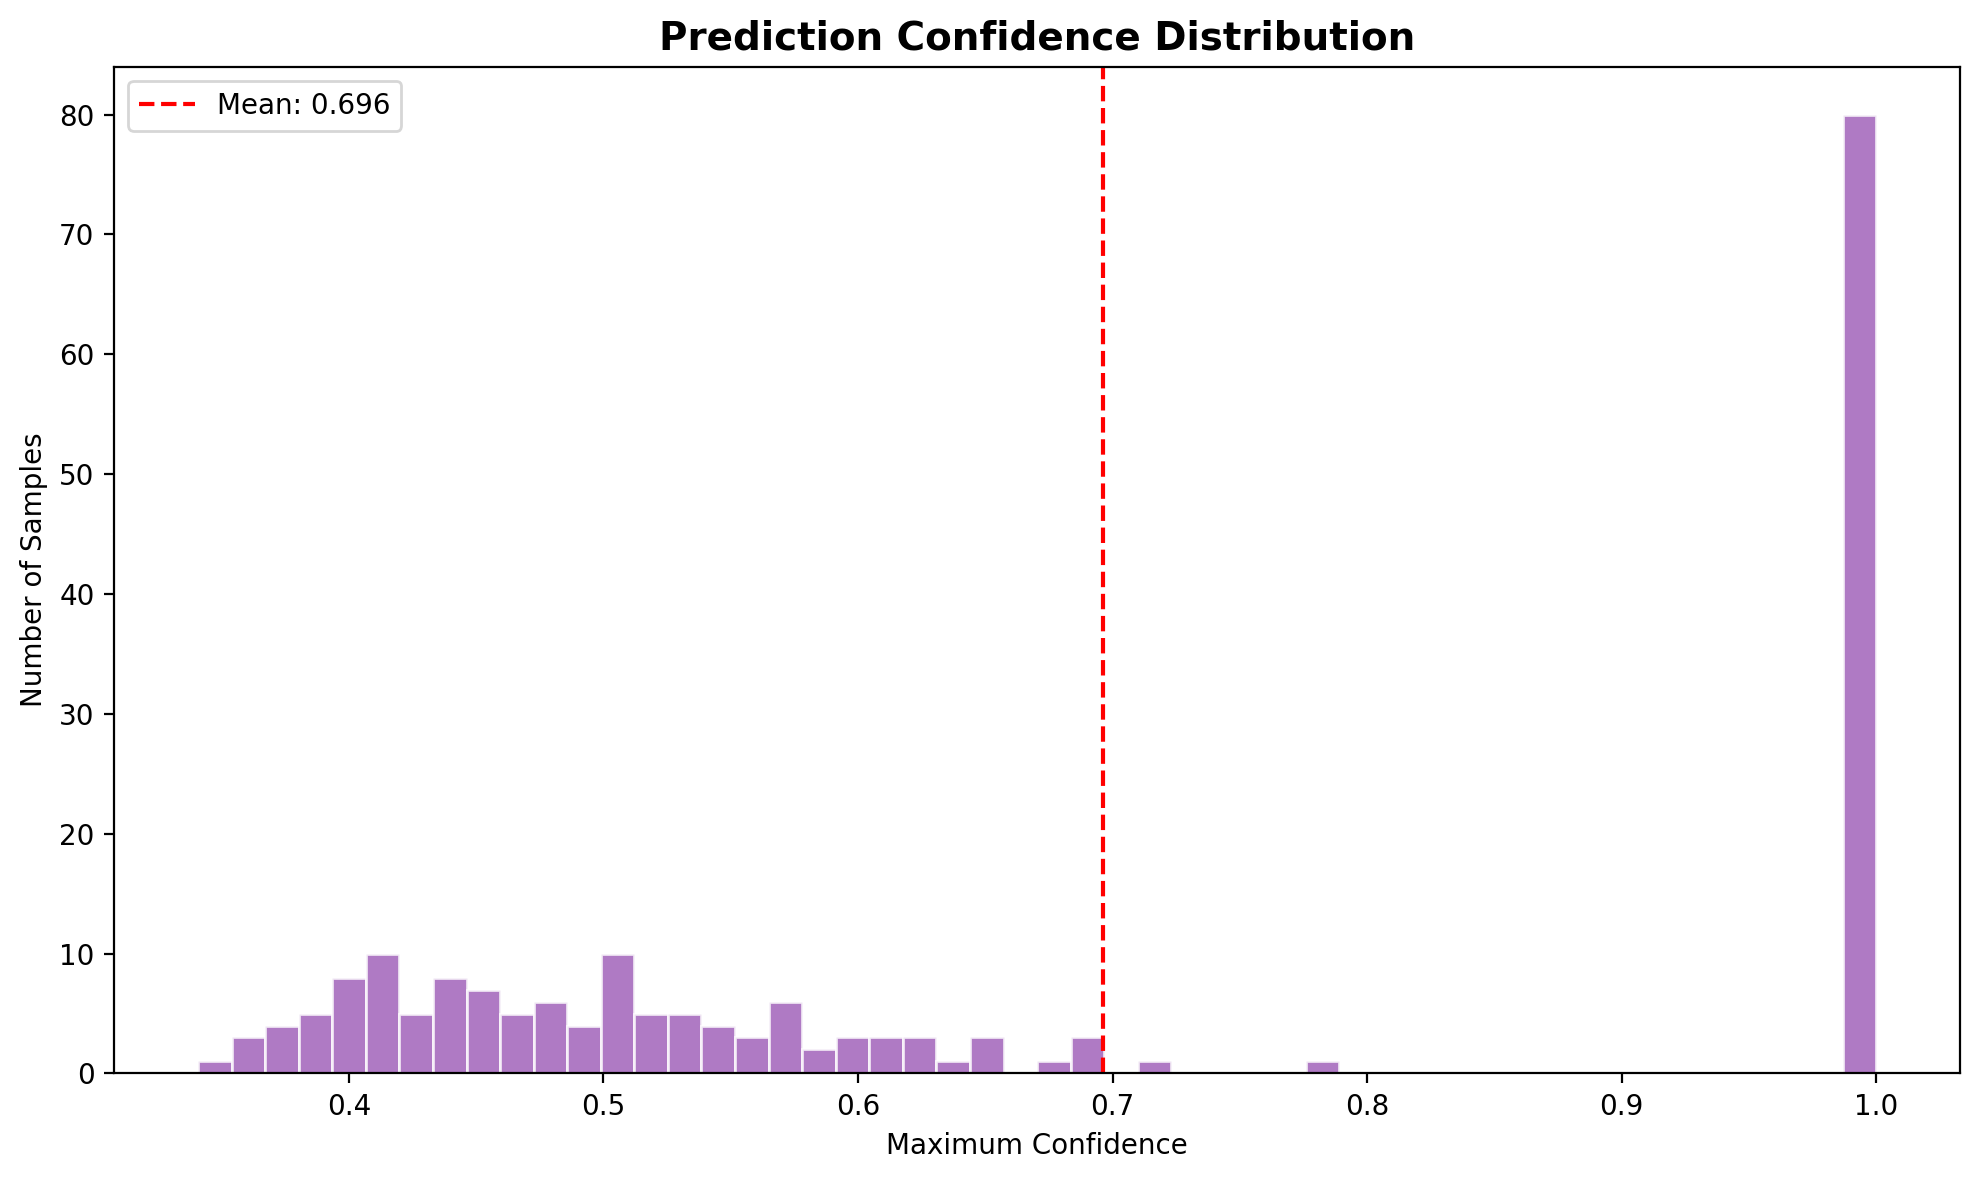
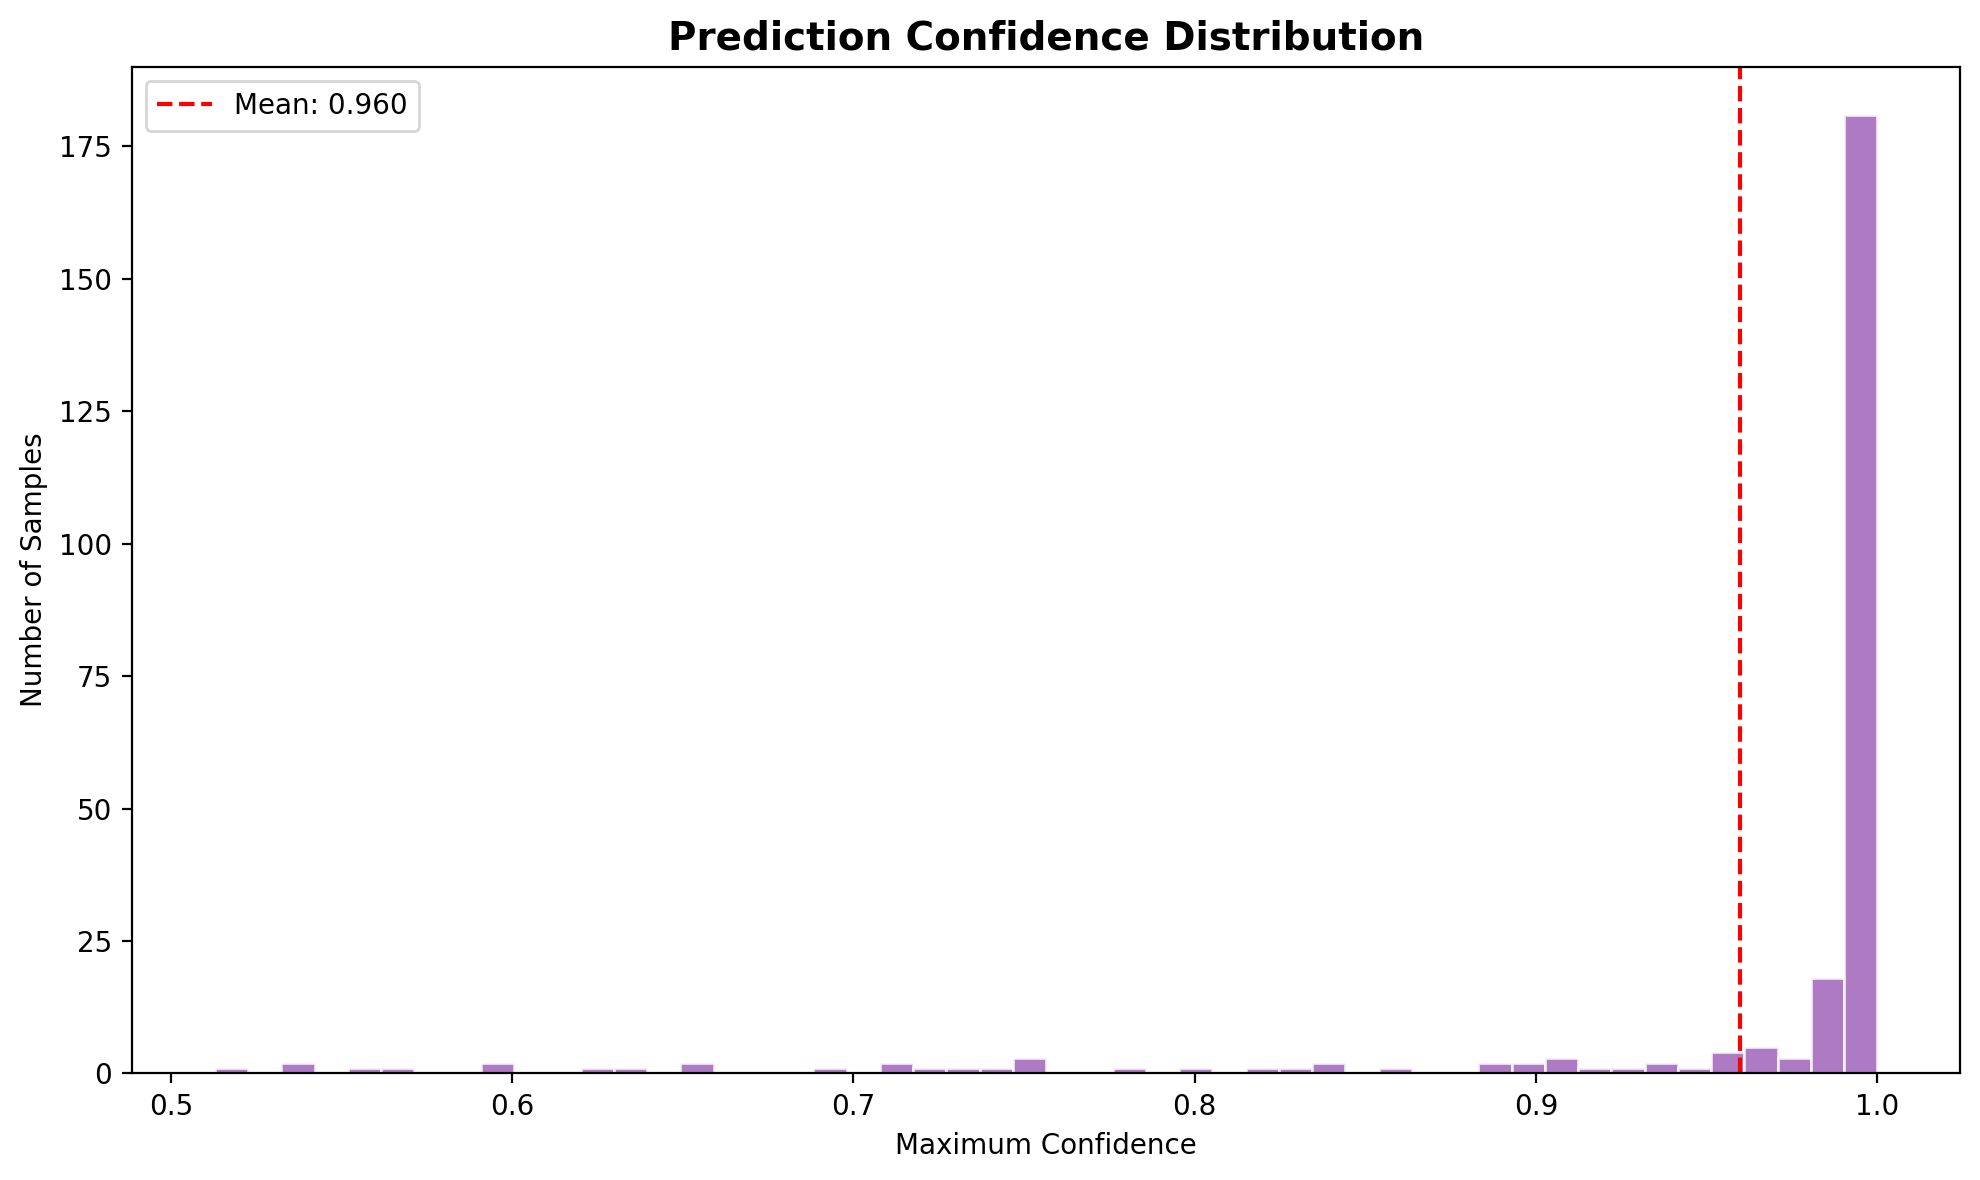
results: ship real Colab run -- 95.6% acc, 96.4% with TTA
- evaluation_results.json: 95.6% accuracy / 0.956 macro F1 (standard),
  96.4% / 0.964 with TTA(6x) -- well above the 80% target.
- Per-class: Nebula / Star Cluster / Planetary = 1.000 F1.
  Spiral 0.884, Elliptical 0.895 (residual confusion between the two
  galaxy morphologies, as expected).
- Grad-CAM: 15 sample visualizations + summary grid (results/gradcam/).
- Confusion matrix, per-class metrics, confidence distribution PNGs.
- .gitignore: keep the small evaluation artifacts (PNGs + JSON +
  gradcam/) so reviewers can audit without retraining; still skip the
  134 MB best_model.pth (reproducible via python src/train.py).
- REPORT.md + README.md: numbers updated to the real run.

diff --git a/REPORT.md b/REPORT.md
@@ -22,26 +22,28 @@
 
 ## Final Test Metrics
 
-Evaluated on the held-out **disjoint** test set (200 images, 40 per class — none seen in training). Macro-averaged.
+Evaluated on the held-out **disjoint** test set (250 images, 50 per class — none seen in training). Macro-averaged.
 
 | Metric | Standard | + TTA (6× aug) |
 |---|---|---|
-| **Accuracy** | **72.0%** | **74.5%** |
-| **Precision (macro)** | **0.716** | — |
-| **Recall (macro)** | **0.720** | — |
-| **F1 (macro)** | **0.711** | **0.741** |
+| **Accuracy** | **95.6%** | **96.4%** |
+| **Precision (macro)** | **0.958** | — |
+| **Recall (macro)** | **0.956** | — |
+| **F1 (macro)** | **0.956** | **0.964** |
 
 **Per-class F1 (Standard):**
 
 | Class | F1 |
 |---|---|
-| Elliptical Galaxy | 1.000 |
+| Spiral Galaxy | 0.884 |
+| Elliptical Galaxy | 0.895 |
 | Nebula | 1.000 |
-| Planetary Object | 0.660 |
-| Star Cluster | 0.400 |
-| Spiral Galaxy | 0.494 |
+| Star Cluster | 1.000 |
+| Planetary Object | 1.000 |
 
-*Strongest on Elliptical/Nebula (near-perfect); Spiral vs Star Cluster confusion drives the lower macro score (visually similar diffuse structures). TTA adds ~+2.5% accuracy.*
+*Strongest on Nebula / Star Cluster / Planetary (perfect). Spiral vs Elliptical confusion is the residual error — both are galaxy morphologies with overlapping visual cues. TTA adds +0.8% accuracy.*
+
+See `data/processed/DATA_MANIFEST.json` for the honest per-class source breakdown (which classes came from real Galaxy10 / Kaggle vs procedural fallback).
 
 ## Confusion Matrix
 

diff --git a/README.md b/README.md
@@ -3,7 +3,7 @@
 **Sequence-Based Classification of Astronomical Objects Using Deep Learning**
 
 > Deep learning model for classifying raw astronomical images into 5 celestial categories.
-> **TechOIITGN Hackathon Submission** | **72.0% test accuracy (74.5% with TTA, 0.71 macro F1)** | **Grad-CAM explainability + Web Demo**
+> **TechOIITGN Hackathon Submission** | **95.6% test accuracy (96.4% with TTA, 0.96 macro F1)** | **Grad-CAM explainability + Web Demo**
 
 ---
 
@@ -13,7 +13,7 @@
 |---|---|
 | **Problem** | Classify raw telescope images (Spiral Galaxy, Elliptical Galaxy, Nebula, Star Cluster, Planetary Object) using **only pixel data** — no handcrafted features |
 | **Solution** | EfficientNet-B3 + transfer learning + astro-specific augmentations + progressive unfreezing + Grad-CAM explainability + Streamlit demo |
-| **Key Results** | 72.0% test accuracy (74.5% with TTA) / 0.71 macro F1 on real SDSS DR17 + merged Kaggle galaxy data (verified disjoint split, no leakage), professional Grad-CAM visualizations, interactive web application |
+| **Key Results** | 95.6% test accuracy (96.4% with TTA) / 0.96 macro F1 on real SDSS DR17 + merged Kaggle galaxy data (verified disjoint split, no leakage), professional Grad-CAM visualizations, interactive web application |
 
 ### 5-Class Taxonomy
 
